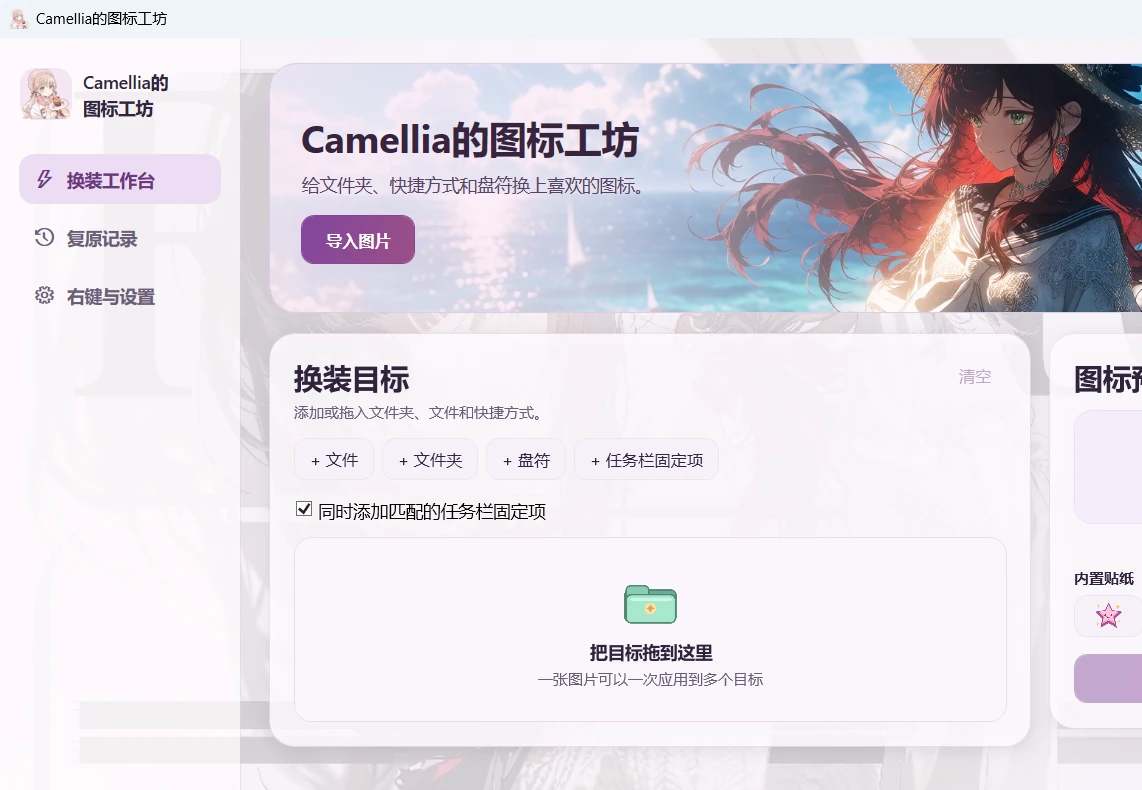
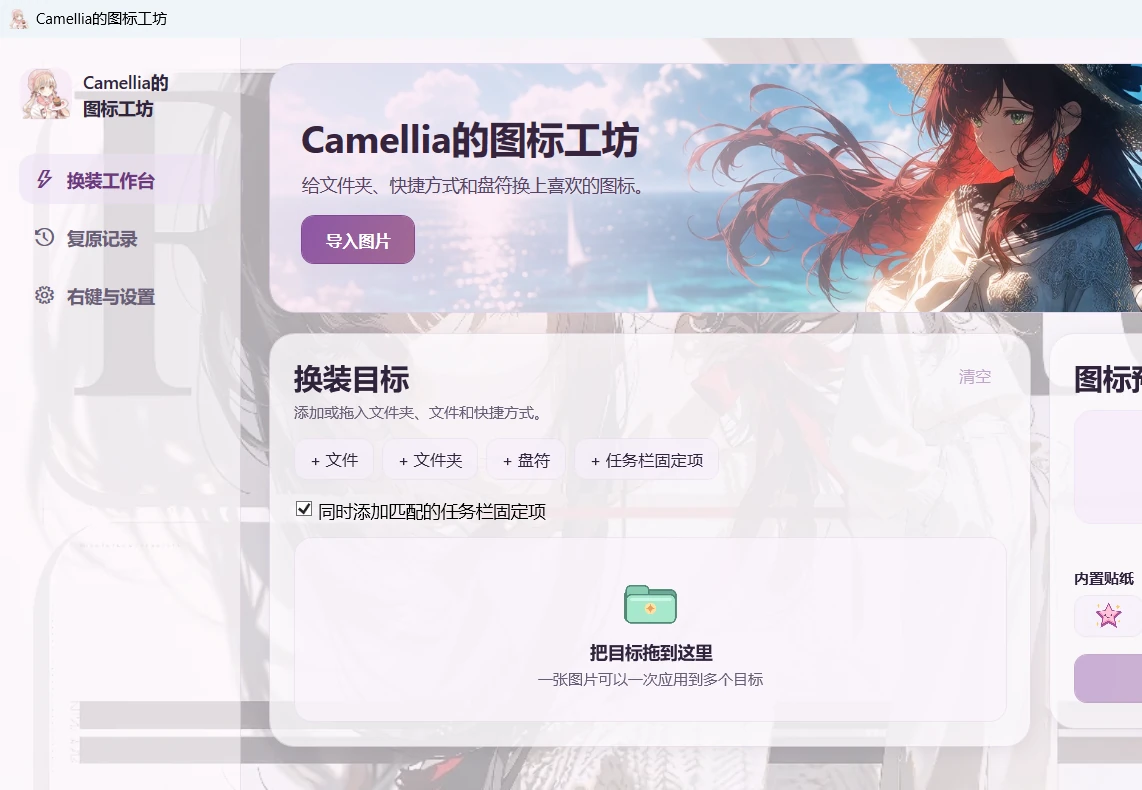
统一界面半透明层次

diff --git a/src/Hanairo/MainWindow.xaml b/src/Hanairo/MainWindow.xaml
@@ -17,11 +17,11 @@
                             AlignmentX="Center" AlignmentY="Center"/>
             </Border.Background>
         </Border>
-        <Border Grid.ColumnSpan="2" Background="#A8F8F1F8" Panel.ZIndex="1"/>
-        <Border Panel.ZIndex="2" Background="#D9FFFBFE" BorderBrush="#B8E9DCEC" BorderThickness="0,0,1,0" Padding="15,23,15,15">
+        <Border Grid.ColumnSpan="2" Background="#7AF8F1F8" Panel.ZIndex="1"/>
+        <Border Panel.ZIndex="2" Background="#B8FFFBFE" BorderBrush="#B8E9DCEC" BorderThickness="0,0,1,0" Padding="15,23,15,15">
             <DockPanel>
                 <StackPanel DockPanel.Dock="Top" Orientation="Horizontal" Margin="1,1,0,27">
-                    <Border Background="#F6E5F4" Width="42" Height="42" CornerRadius="12">
+                    <Border Background="#A8F6E5F4" Width="42" Height="42" CornerRadius="12">
                         <Image Source="/Assets/app-logo.png" Width="40" Height="40" RenderOptions.BitmapScalingMode="HighQuality"/>
                     </Border>
                     <StackPanel Margin="9,2,0,0">
@@ -66,8 +66,8 @@
         <Grid Grid.Column="1" Panel.ZIndex="2">
             <Grid.Background>
                 <LinearGradientBrush StartPoint="0,0" EndPoint="1,1">
-                    <GradientStop Color="#80FAF3F9" Offset="0"/>
-                    <GradientStop Color="#74F3F0FC" Offset="1"/>
+                    <GradientStop Color="#62FAF3F9" Offset="0"/>
+                    <GradientStop Color="#58F3F0FC" Offset="1"/>
                 </LinearGradientBrush>
             </Grid.Background>
             <Grid.RowDefinitions>
@@ -78,7 +78,7 @@
             <ScrollViewer x:Name="PageScroll" VerticalScrollBarVisibility="Auto" HorizontalScrollBarVisibility="Disabled">
                 <Grid Margin="22,20,22,17">
                     <StackPanel x:Name="WorkbenchPage">
-                        <Border CornerRadius="21" Height="200" Margin="0,0,0,16" BorderBrush="#E0CCE9" BorderThickness="1">
+                        <Border CornerRadius="21" Height="200" Margin="0,0,0,16" BorderBrush="#B8E0CCE9" BorderThickness="1">
                             <Border.Background>
                                 <ImageBrush ImageSource="/Assets/atelier.jpg" Stretch="UniformToFill" Viewbox="0,0,1,.74"/>
                             </Border.Background>
@@ -124,8 +124,8 @@
                                     <CheckBox x:Name="SyncPinCheck" Content="同时添加匹配的任务栏固定项"
                                               IsChecked="True" Margin="1,0,0,12"
                                               ToolTip="当程序路径和启动参数能唯一匹配时，将对应固定项加入可见的队列。"/>
-                                    <Border x:Name="DropHint" BorderBrush="#EADCEE" BorderThickness="1"
-                                            Background="#FBF5FC" CornerRadius="14" MinHeight="148">
+                                    <Border x:Name="DropHint" BorderBrush="#A8EADCEE" BorderThickness="1"
+                                            Background="#B8FBF5FC" CornerRadius="14" MinHeight="148">
                                         <StackPanel VerticalAlignment="Center" HorizontalAlignment="Center" Margin="12">
                                             <Image Source="/Assets/folder.png" Height="55" Width="55"/>
                                             <TextBlock Text="把目标拖到这里" FontWeight="DemiBold" HorizontalAlignment="Center"/>
@@ -136,13 +136,13 @@
                                     <ItemsControl x:Name="QueueList">
                                         <ItemsControl.ItemTemplate>
                                             <DataTemplate>
-                                                <Border Background="#FBF5FC" BorderBrush="#EADCEE" BorderThickness="1"
+                                                <Border Background="#B8FBF5FC" BorderBrush="#A8EADCEE" BorderThickness="1"
                                                         CornerRadius="10" Padding="9,7" Margin="0,0,0,6">
                                                     <DockPanel>
                                                         <Button Content="&#xE711;" DockPanel.Dock="Right" ToolTip="移除目标"
                                                                 AutomationProperties.Name="移除目标" FontFamily="Segoe MDL2 Assets"
                                                                 Style="{StaticResource Quiet}" Padding="8,3" Click="Remove_Click"/>
-                                                        <Border DockPanel.Dock="Left" Width="34" Height="34" Background="#F1E5F8"
+                                                        <Border DockPanel.Dock="Left" Width="34" Height="34" Background="#A8F1E5F8"
                                                                 CornerRadius="9" Margin="0,0,9,0" VerticalAlignment="Center">
                                                             <TextBlock Text="{Binding Glyph}" FontFamily="Segoe MDL2 Assets"
                                                                        Foreground="{StaticResource Plum}" FontSize="16"
@@ -170,7 +170,7 @@
                                                 Click="Import_Click" Margin="0,-4,0,0"/>
                                         <TextBlock Text="图标预览" Style="{StaticResource Title}" VerticalAlignment="Center"/>
                                     </DockPanel>
-                                    <Border Background="#F6ECFB" BorderBrush="#EDDEF2" BorderThickness="1" CornerRadius="14" Height="91">
+                                    <Border Background="#B8F6ECFB" BorderBrush="#A8EDDEF2" BorderThickness="1" CornerRadius="14" Height="91">
                                         <Grid>
                                             <Image x:Name="IconPreview" Width="70" Height="70"
                                                    RenderOptions.BitmapScalingMode="HighQuality"/>
@@ -211,18 +211,18 @@
                                     <TextBlock Text="复原记录" Style="{StaticResource Title}" VerticalAlignment="Center"/>
                                 </DockPanel>
                                 <TextBlock Text="复原到该目标第一次换装之前的图标。" Style="{StaticResource Caption}" Margin="0,0,0,16"/>
-                                <Border x:Name="HistoryHint" Background="#FAF2FB" CornerRadius="14" Padding="18">
+                                <Border x:Name="HistoryHint" Background="#B8FAF2FB" CornerRadius="14" Padding="18">
                                     <TextBlock Text="应用图标后，复原记录会出现在这里。" Style="{StaticResource Caption}"/>
                                 </Border>
                                 <ItemsControl x:Name="HistoryList">
                                     <ItemsControl.ItemTemplate>
                                         <DataTemplate>
-                                            <Border CornerRadius="12" Background="#FAF3FC" BorderBrush="#EDDEF2"
+                                            <Border CornerRadius="12" Background="#B8FAF3FC" BorderBrush="#A8EDDEF2"
                                                     BorderThickness="1" Padding="10" Margin="0,0,0,8">
                                                 <DockPanel>
                                                     <Button Content="复原" DockPanel.Dock="Right" Click="RestoreOne_Click" Margin="9,0,0,0"/>
                                                     <Border Width="42" Height="42" DockPanel.Dock="Left" CornerRadius="10"
-                                                            Background="#EEE2F6" Margin="0,0,10,0">
+                                                            Background="#A8EEE2F6" Margin="0,0,10,0">
                                                         <Image Source="{Binding Preview}" Width="33" Height="33"/>
                                                     </Border>
                                                     <StackPanel VerticalAlignment="Center" ToolTip="{Binding Entry.Location}">
@@ -271,7 +271,7 @@
                 </Grid>
             </ScrollViewer>
 
-            <Border Grid.Row="1" Background="#D9FFFCFF" BorderBrush="#B8E9DCEC" BorderThickness="0,1,0,0" Padding="22,7">
+            <Border Grid.Row="1" Background="#C4FFFCFF" BorderBrush="#B8E9DCEC" BorderThickness="0,1,0,0" Padding="22,7">
                 <DockPanel>
                     <Button x:Name="DetailsButton" DockPanel.Dock="Right" Style="{StaticResource Quiet}" Content="查看结果"
                             Visibility="Collapsed" MinHeight="25" Padding="8,2" Click="Details_Click"/>

diff --git a/src/Hanairo/App.xaml b/src/Hanairo/App.xaml
@@ -5,8 +5,8 @@
     <Application.Resources>
         <SolidColorBrush x:Key="Ink" Color="#30243D"/>
         <SolidColorBrush x:Key="Muted" Color="#695D78"/>
-        <SolidColorBrush x:Key="Paper" Color="#D9FFFCFF"/>
-        <SolidColorBrush x:Key="Line" Color="#B8EADDED"/>
+        <SolidColorBrush x:Key="Paper" Color="#C4FFFCFF"/>
+        <SolidColorBrush x:Key="Line" Color="#A8EADDED"/>
         <SolidColorBrush x:Key="Wash" Color="#F2E9F8"/>
         <SolidColorBrush x:Key="Plum" Color="#7A4191"/>
 
@@ -27,13 +27,13 @@
             <Setter Property="Padding" Value="19"/>
             <Setter Property="Effect">
                 <Setter.Value>
-                    <DropShadowEffect BlurRadius="22" ShadowDepth="3" Opacity=".12" Color="#5A416D"/>
+                    <DropShadowEffect BlurRadius="22" ShadowDepth="3" Opacity=".10" Color="#5A416D"/>
                 </Setter.Value>
             </Setter>
         </Style>
         <Style TargetType="Button">
             <Setter Property="Foreground" Value="{StaticResource Ink}"/>
-            <Setter Property="Background" Value="#F7F0FA"/>
+            <Setter Property="Background" Value="#B8F7F0FA"/>
             <Setter Property="BorderBrush" Value="{StaticResource Line}"/>
             <Setter Property="BorderThickness" Value="1"/>
             <Setter Property="FontWeight" Value="Medium"/>
@@ -72,8 +72,8 @@
             <Setter Property="Background">
                 <Setter.Value>
                     <LinearGradientBrush StartPoint="0,0" EndPoint="1,1">
-                        <GradientStop Color="#82469D" Offset="0"/>
-                        <GradientStop Color="#9B4F86" Offset="1"/>
+                        <GradientStop Color="#E382469D" Offset="0"/>
+                        <GradientStop Color="#DF9B5A87" Offset="1"/>
                     </LinearGradientBrush>
                 </Setter.Value>
             </Setter>
@@ -100,10 +100,10 @@
                         </Border>
                         <ControlTemplate.Triggers>
                             <Trigger Property="IsMouseOver" Value="True">
-                                <Setter TargetName="Tile" Property="Background" Value="#F8EFF8"/>
+                                <Setter TargetName="Tile" Property="Background" Value="#70F8EFFA"/>
                             </Trigger>
                             <Trigger Property="IsChecked" Value="True">
-                                <Setter TargetName="Tile" Property="Background" Value="#ECDDF4"/>
+                                <Setter TargetName="Tile" Property="Background" Value="#8AECDDF4"/>
                                 <Setter Property="Foreground" Value="#6C377F"/>
                             </Trigger>
                         </ControlTemplate.Triggers>

diff --git a/README.md b/README.md
@@ -2,7 +2,7 @@
 
 粉紫色的 Windows 图标换装工具。把文件、文件夹、快捷方式或盘符加入队列，导入一张图片或选一枚内置贴纸，一次应用到多个目标。每项换装都有复原记录。
 
-[下载 Windows x64 便携版](https://github.com/Camellia-Garden/self-define-icon/releases/download/v1.4.0/Hanairo.exe) · [发布说明](https://github.com/Camellia-Garden/self-define-icon/releases/tag/v1.4.0)
+[下载 Windows x64 便携版](https://github.com/Camellia-Garden/self-define-icon/releases/download/v1.5.0/Hanairo.exe) · [发布说明](https://github.com/Camellia-Garden/self-define-icon/releases/tag/v1.5.0)
 
 ![Camellia的图标工坊工作台](docs/preview.webp)
 
@@ -44,6 +44,8 @@
 换装资产和复原记录在 %LOCALAPPDATA%\Hanairo。复原前请保留该目录及目标路径。如果有人在工房之外修改了同一目标的图标配置，工房会保留当前内容与复原记录，并报告冲突。卸载时可先全部复原，再关闭右键菜单。
 
 ## 进度与验收
+
+- **v1.5.0** · 进一步降低导航、按钮、目标列表、拖放区域、预览卡片和状态栏的底色不透明度，让壁纸在整个工作区连续透出。保留边框、阴影和主按钮色彩以维持阅读和操作层次。项目版本元数据同步为 1.5.0。
 
 - **v1.4.0** · 顶部横幅改用用户提供的海边人物插画，保留原有左侧渐隐和透明叠层。人物与海景位于右侧，标题和导入按钮区域保持清晰。Windows 11 实测新横幅正常显示。
 
